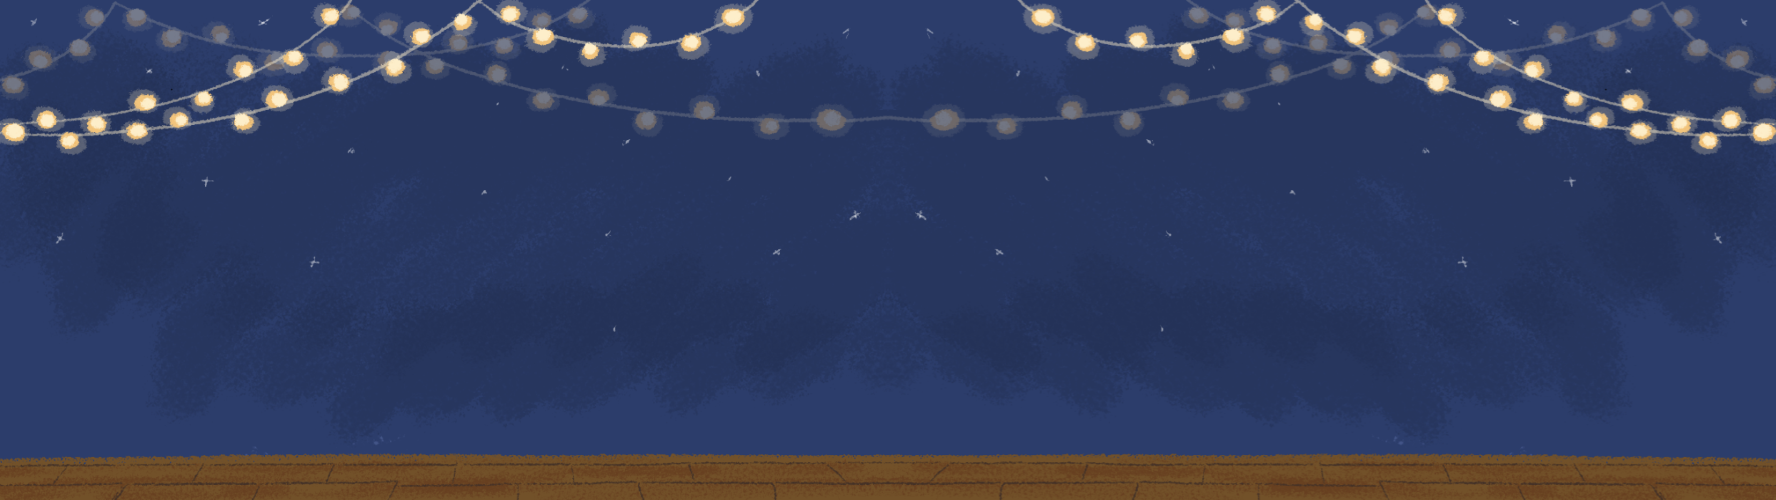
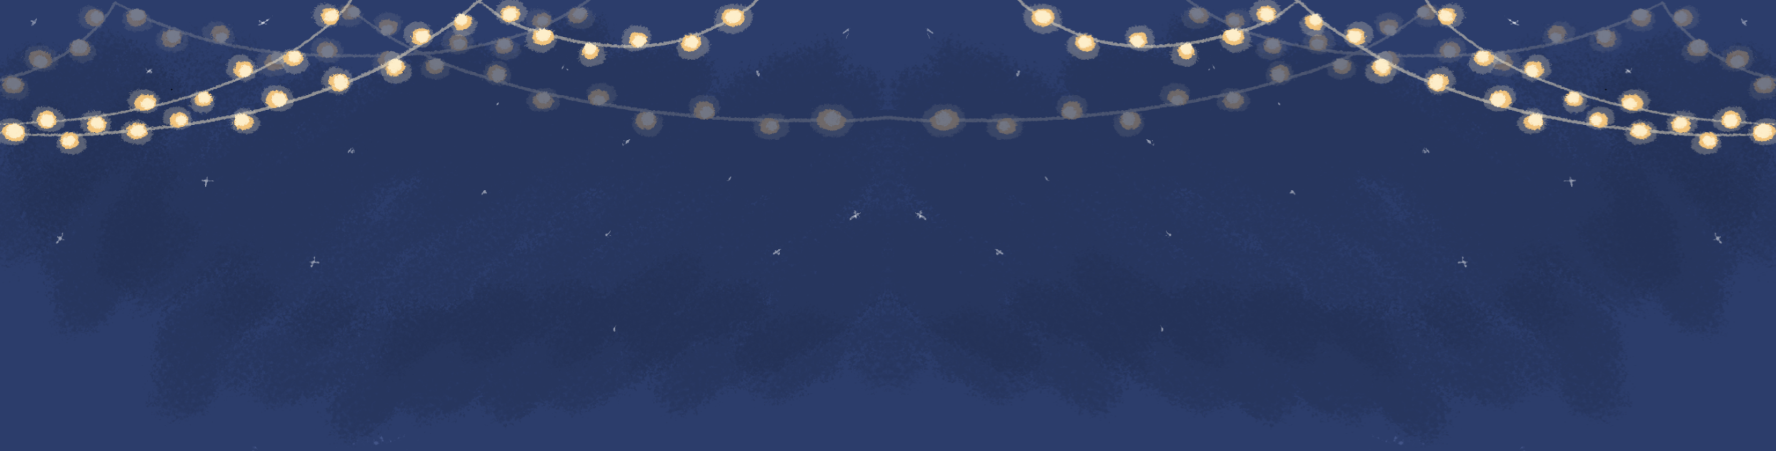
random styling bs please release me from this pain god

diff --git a/src/components/Game.tsx b/src/components/Game.tsx
@@ -1,21 +1,24 @@
 import { useState } from 'react'
-import { Container, Stage, TilingSprite, useTick, Text } from '@inlet/react-pixi';
+import { Container, Stage, TilingSprite, useTick, Text, Sprite } from '@inlet/react-pixi';
 
 import Player from './player';
 import Obstacles from './obstacles';
 import Sky from './sky'
 import Foreground from './foreground';
 import backgroundImage from '../assets/background.png';
+import scoreBackground from '../assets/score.png'
 
 function GameWrapper() {
-  const game_width = 800
-  const game_height = 500
+  const game_width = window.innerWidth - window.innerWidth/10
+  const game_height = window.innerHeight - window.innerHeight/10
 
   return (
-    <div className="App">
-      <Stage width={game_width} height={game_height}>
-        <Game game_height={game_height} game_width={game_width} />
-      </Stage>
+    <div className="background-image">
+      <div className="App">
+        <Stage width={game_width} height={game_height}>
+          <Game game_height={game_height} game_width={game_width} />
+        </Stage>
+      </div>
     </div>
   );
 }
@@ -26,8 +29,6 @@ type Props = {
 };
 
 const Game: React.FC<Props> = (props: Props) => {
-
-  
   const player_width = 292 * .25
 
   const [playerX, setPlayerX] = useState(props.game_width/6);
@@ -43,7 +44,7 @@ const Game: React.FC<Props> = (props: Props) => {
   const [gameSpeed, setGameSpeed] = useState(0);
   useTick(delta => {
     setTime(time_passed + delta*.005)
-    setGameSpeed(10*(1-Math.exp(-.04 * time_passed)) + 1)
+    setGameSpeed(10*(1-Math.exp(-.02 * time_passed)) + 1)
   });
 
   function end_game() {
@@ -64,13 +65,21 @@ const Game: React.FC<Props> = (props: Props) => {
       />
       <Sky game_width={props.game_width} game_height={props.game_height}/>
       <Foreground speed={gameSpeed} game_width={props.game_width} game_height={props.game_height} />
+      <Sprite
+        image={scoreBackground}
+        x={props.game_width-250}
+        y={-5}
+        scale={.85}
+      />
       <Text 
         text={get_score()}
         anchor={0.5}
-        x={60}
-        y={20}
+        x={props.game_width-145}
+        y={60}
         style={{
-          fill: "white"
+          fill: "white",
+          fontFamily: '"ServiceStation"',
+          fontSize: 30
         }}
       />
       <Player movement_speed={gameSpeed} x_start={props.game_width/6} y_start={props.game_height-70} x={playerX} y={playerY} update_position={updatePlayerPosition}/>

diff --git a/src/components/player.tsx b/src/components/player.tsx
@@ -52,7 +52,7 @@ const Player: React.FC<Props> = (props: Props) => {
       (event.code && event.code === 'ArrowUp') ||
       (event.pointerId && event.pointerId === 1)
     ) {
-      setGravity(1.25)
+      setGravity(1.05)
     }
   };
 
@@ -73,14 +73,14 @@ const Player: React.FC<Props> = (props: Props) => {
       }
 
       updatedY = jumpStart + jumpHeight * -1
-      updatedX = props.x + delta * 3.8
+      updatedX = props.x + delta * 3.5
 
       props.update_position(updatedX, updatedY)
       setJumpingTime(jumpingTime + delta)
     } else {
       if (props.x >= props.x_start) {
-        if (Math.abs(props.x - props.x_start) >= props.movement_speed) {
-          props.update_position(props.x - props.movement_speed, props.y)
+        if (Math.abs(props.x - props.x_start) >= props.movement_speed + .01) {
+          props.update_position(props.x - props.movement_speed + .01, props.y)
         } else {
           props.update_position(props.x_start, props.y)
         }

diff --git a/src/components/obstacleTable.tsx b/src/components/obstacleTable.tsx
@@ -14,11 +14,11 @@ type Props = {
 
 const ObstacleTable: React.FC<Props> = (props: Props) => {
 
-  const width = 96 * .5;
-  const height = 69 * .5;
+  const width = 96 * .6;
+  const height = 69 * .6;
 
   const [x, setX] = useState(props.x_start)
-  const [y, ] = useState(props.y_start - 20)
+  const [y, ] = useState(props.y_start - 35)
 
   useTick(_ => {
     props.check_obstacle(props.obstacleID, x, y, width, height)
@@ -26,7 +26,7 @@ const ObstacleTable: React.FC<Props> = (props: Props) => {
   });
 
   return (
-    <Sprite image={bike} scale={.5} x={x} y={y}/>
+    <Sprite image={bike} scale={.6} x={x} y={y}/>
   )
 }
 

diff --git a/src/components/obstacleBike.tsx b/src/components/obstacleBike.tsx
@@ -14,8 +14,8 @@ type Props = {
 
 const ObstacleBike: React.FC<Props> = (props: Props) => {
 
-  const width = 351 * .35;
-  const height = 247 * .35;
+  const width = 272 * .5;
+  const height = 203 * .5;
 
   const [x, setX] = useState(props.x_start)
   const [y, ] = useState(props.y_start-105)
@@ -26,7 +26,7 @@ const ObstacleBike: React.FC<Props> = (props: Props) => {
   });
 
   return (
-    <Sprite image={bike} scale={.35} x={x} y={y}/>
+    <Sprite image={bike} scale={.5} x={x} y={y}/>
   )
 }
 

diff --git a/src/App.css b/src/App.css
@@ -1,4 +1,21 @@
+body {
+  background-image: url("./assets/superbackground.png");
+  background-size: 100% 100%;
+  background-repeat: no-repeat;
+}
+
+html {
+  height: auto;
+  min-height: 100%;
+  background-size:cover;
+}
+
 .App {
+  margin: 0;
+  position: absolute;
+  top: 50%;
+  right: 50%;
+  transform: translate(50%, -50%);
   text-align: center;
 }
 

diff --git a/src/components/obstacleCat.tsx b/src/components/obstacleCat.tsx
@@ -14,8 +14,8 @@ type Props = {
 
 const ObstacleCat: React.FC<Props> = (props: Props) => {
 
-  const width = 96 * .35;
-  const height = 69 * .35;
+  const width = 136 * .35;
+  const height = 109 * .35;
 
   const [x, setX] = useState(props.x_start)
   const [y, ] = useState(props.y_start-50)

diff --git a/src/components/foreground.tsx b/src/components/foreground.tsx
@@ -22,7 +22,8 @@ const Foreground: React.FC<Props> = (props: Props) => {
         tilePosition={{ x: position, y: 0 }}
         width={props.game_width}
         height={210}
-        y={props.game_height - 215}
+        y={props.game_height - 210}
+        alpha={.8}
     />
   );
 }

diff --git a/src/components/sky.tsx b/src/components/sky.tsx
@@ -21,6 +21,7 @@ const Sky: React.FC<Props> = (props: Props) => {
         tilePosition={{ x: skyPosition, y: 0 }}
         height={props.game_height}
         width={props.game_width}
+        scale={props.game_height/451}
     />
   );
 }
